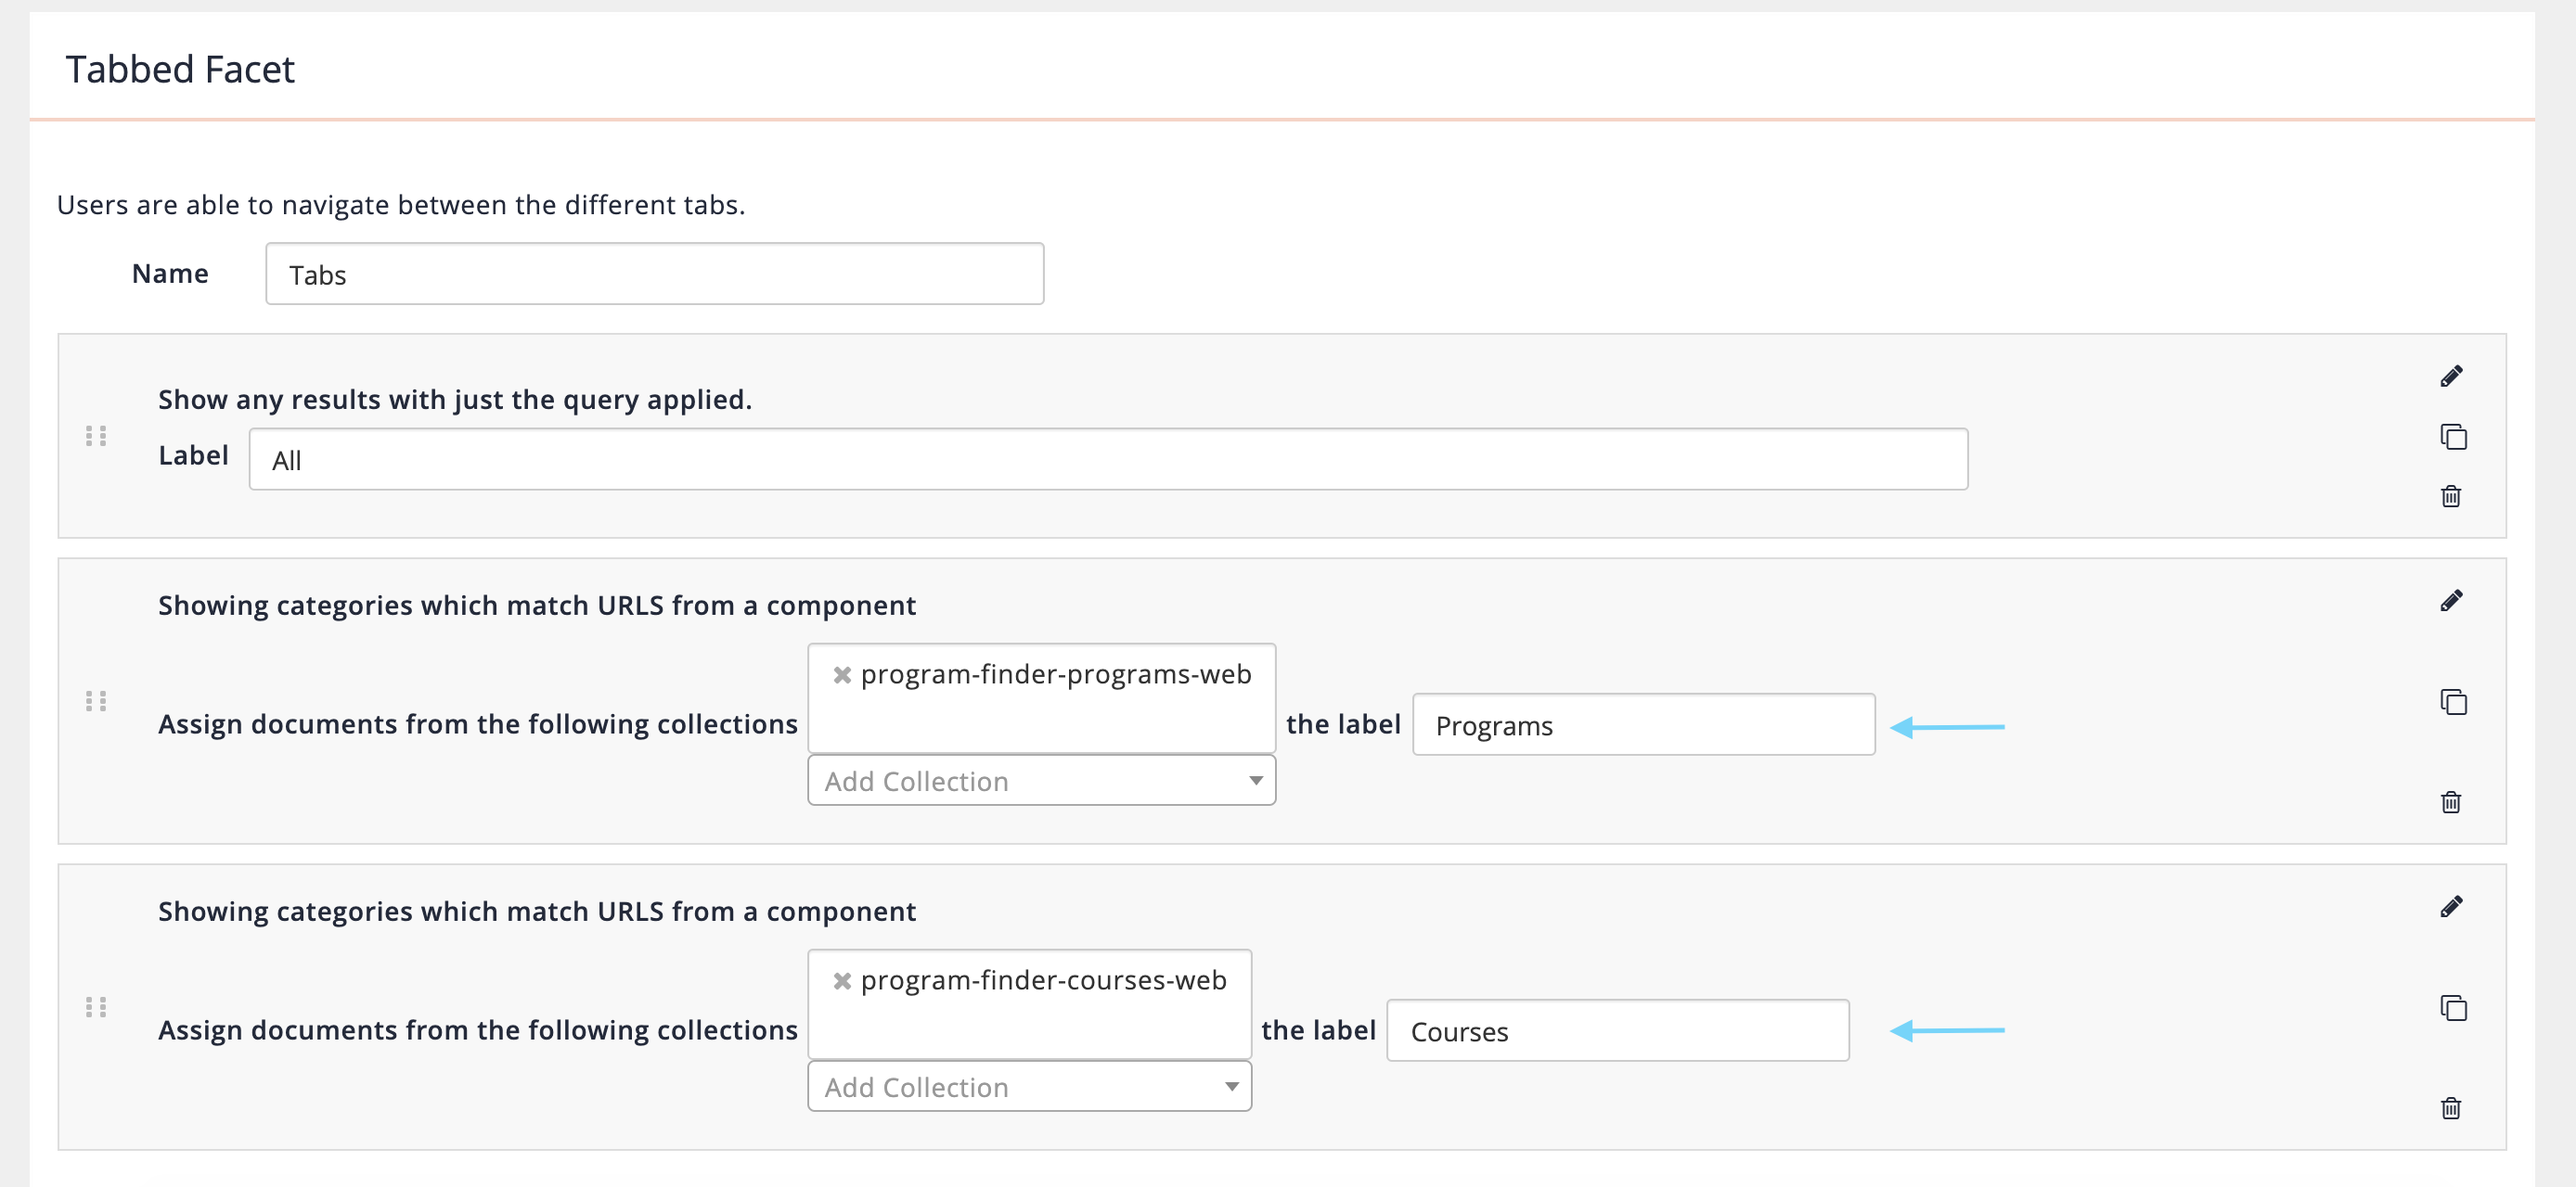
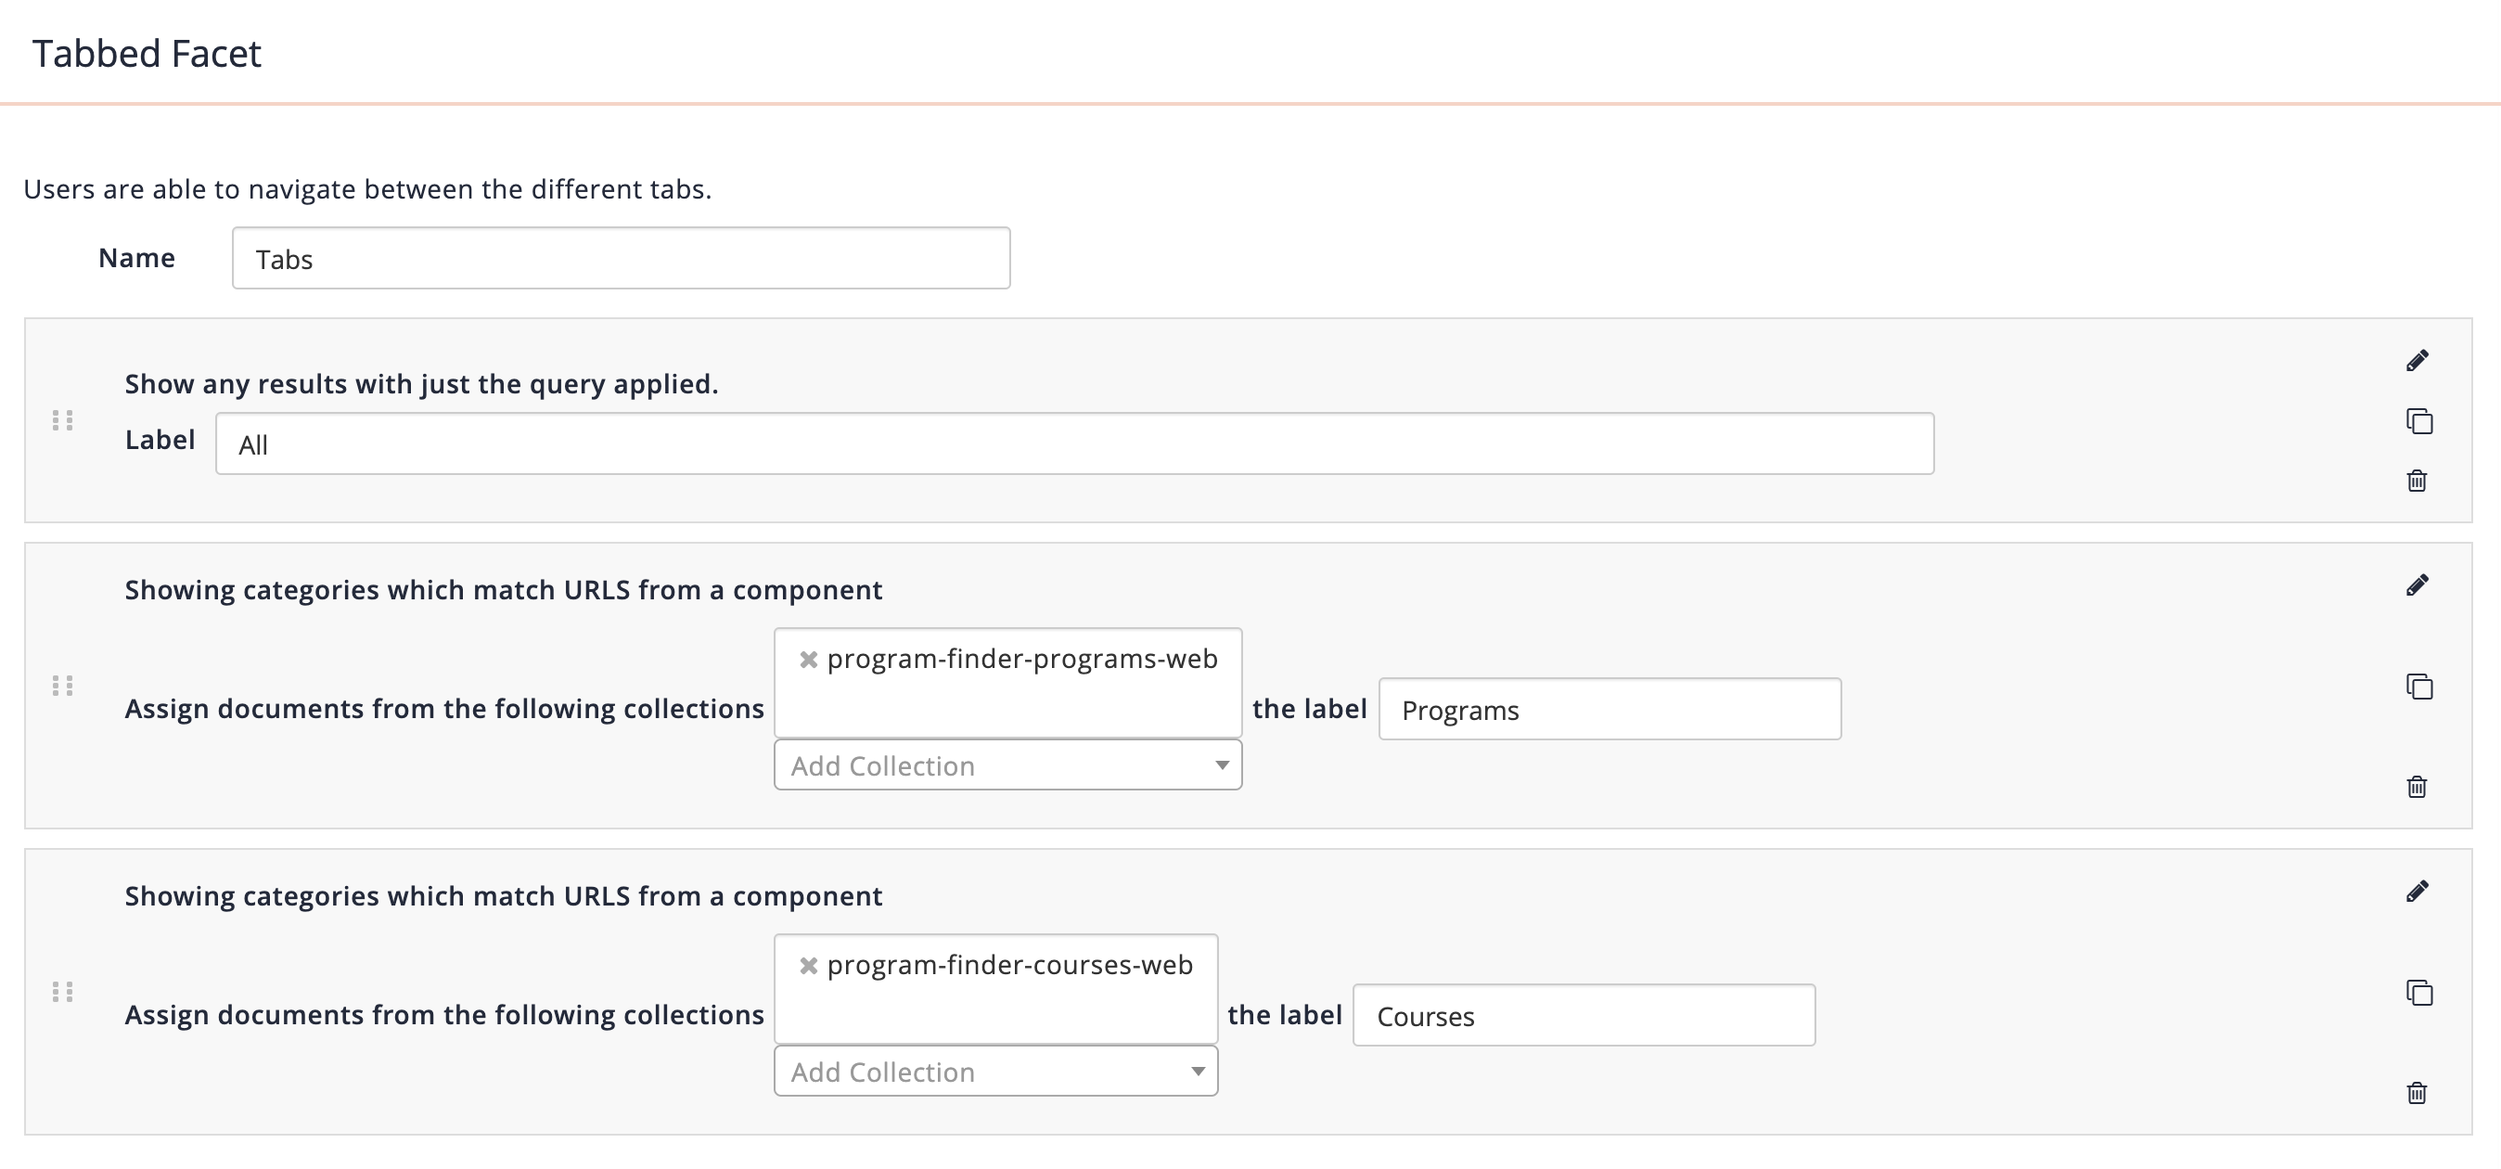
Added more documentation.

diff --git a/README.md b/README.md
@@ -1,5 +1,7 @@
 # Program Finder Vertical Product
 
+![Configuring the labels of the facets](@documentation/images/program_finder_overview.png "Configuring the labels of the facets")
+
 This is a quick reference guide to implementing the Program Finder Vertical Product.
 
 At a high level, you will need to:
@@ -7,8 +9,9 @@ At a high level, you will need to:
 * **Setup the program and courses collections** - Create the collections and map the relevant metadata.
 * **Setup the meta collection** - Using this git repo as the basis, setup a new meta collection.
 * **Configure the extra searches** - Create and configure the programs and courses extra searches.
-* **Setup the faceted navigation** - Create the `display` radio facet and other relevant dropdown facets.
-* **Customise result presentation** - Display the relevant images and metadata.
+* **Setup the faceted navigation** - Adjust the `Tabs` other relevant facets.
+* **Customise the result presentation** - Display the relevant images and metadata.
+* **Customise the quick view presentation** - Display the relevant images and metadata.
 * **Configure concierge** - Customise the concierge to display the relevant metadata.
 * **Configure cart** - Customise the cart to display the relevant metadata.
 * **Configure the header and footer** - Add the client's header and footer to assist with a seamless transition from client's website to search.
@@ -21,23 +24,19 @@ The first step is to create two collections which will gather the programs and c
 
 The important aspect of this step is to get the documents indexed and mapped to the appropriate metadata classes.
 
-The metadata classes are the key drives in the result presentation, concierge, cart and faceted navigation. Please see `<funnelback_server>` for more information.
+The metadata classes are the key drivers as they are used in result presentation, concierge, cart and faceted navigation. Where possible, please default metadata classes names which have been setup in the sample collections.
 
 ### Programs
 
 Programs are the qualifications or accreditation earned which is awarded for completing a set number of courses.
 
-For an example of a program collection please see below:
-
-* `program-finder-programs-web`
+For an example of a program collection please see `program-finder-programs-web`.
 
 ### Courses
 
-Courses are subjects that student undertake as part of a Program. They usually involve lectures, tutorials, workshops, labs etc.
+Courses are subjects, units or modules that student undertake as part of a Program. They usually involve lectures, tutorials, workshops, labs etc.
 
-For an example of a course please see below:
-
-* `program-finder-courses-web`
+For an example of a course please see `program-finder-courses-web`.
 
 ## Setup the meta collection
 
@@ -54,37 +53,47 @@ The Program Finder uses extra searches to display programs and courses in separa
 To configure the extra searches, change the target collection in the following: extra search config:
 
 `extra_search.programs.cfg`
-```
-collection=<insert_name_of_program_collection>
-query_processor_options=-num_ranks=8 -clive=<insert_name_of_meta_collection>
+
+```java
+collection=<name_of_meta_collection>
+query_processor_options=-num_ranks=8 -clive=<name_of_program_collection> -log=off -curator=off -spelling=off -show_qsyntax_tree=off -explain=false
 ```
 
 `extra_search.courses.cfg`
-```
-collection=<insert_name_of_course_collection>
-query_processor_options=-num_ranks=8 -clive=<insert_name_of_meta_collection>
+
+```java
+collection=<name_of_meta_collection>
+query_processor_options=-num_ranks=8 -clive=<name_of_course_collection> -log=off -curator=off -spelling=off -show_qsyntax_tree=off -explain=false
 ```
 
 ## Setup the faceted navigation
 
 The Program Finder relies on a facet called `Tabs` which determines when programs or courses should be displayed. An example of the faceted navigation configuration can be found below:
 
-`<insert image of facet navigation config of display>`
+![Configuring the labels of the facets](@documentation/images/facet_labels.png "Configuring the labels of the facets")
 
-Change the value in the collections field for the Programs and Courses facets so that they reference the relevant collections.
+Change the value in the collections field for the Programs and Courses facets categories so that they reference the relevant collections.
 
-## Customise result presentation
+## Customise the result presentation
 
-It is fairly common that clients customise the way programs and courses are presented so that it best meets their requirement. This can include but not limited to:
+It is fairly common that clients would like to customise the way programs and courses are presented so that it best meets their requirement. This can include but not limited to:
+
 * Adding, changing or removing metadata.
 * Changing the length of title or summary.
 * Updating the html structure prevent or correct css collisions.
 
-`<link to program and courses ftl>`
+This can be done by modifying `<#macro GenericView>` in [programs.ftl](_default_preview/programs.ftl) and [courses.ftl](_default_preview/courses.ftl) templates.
+
+## Customise the quick view presentation
+
+Quick view allows the user view more information about a particular document without them having to leave the search results page. This aims to minimise the amount of hopping back and forth between systems.
+
+It is possible to customise how this is displayed by modifying `<#macro QuickView>` in [programs.ftl](_default_preview/programs.ftl) and [courses.ftl](_default_preview/courses.ftl) templates.
+
 
 ## Configure the cart
 
-Similarly to the results presentation, it is possible to customise how items in the cart are displayed. This can be done by modifying the `<link to template with cart ftl>`.
+Similarly to the results presentation, it is possible to customise how programs the cart are displayed. This can be done by modifying the `<@macro CartTemplate>` in the [programs.ftl](_default_preview/programs.ftl).
 
 ## Configure the header and footer
 

diff --git a/@documentation/renamingPrograms.md b/@documentation/renamingPrograms.md
@@ -31,14 +31,14 @@ At a higher level, the process will involve:
 In the profile configurations, set the primary and secondary finder types
 using the following configurations:
 
-```
+```java
 stencils.I18n.finder_type_primary=<name_of_primary_type>
 stencils.I18n.finder_type_secondary=<name_of_secondary_type>
 ```
 
 e.g. In the UK, programs are known as `courses` and courses are known as `modules`. The following will need
 
-```
+```java
 stencils.I18n.finder_type_primary=course
 stencils.I18n.finder_type_secondary=module
 ```
@@ -113,5 +113,5 @@ title to something which is user friendly as this is what is used in
 the marketing dashboard.
 
 ```java
-service.title=<client name> Program Finder
+service.title=<client_name> Program Finder
 ```
